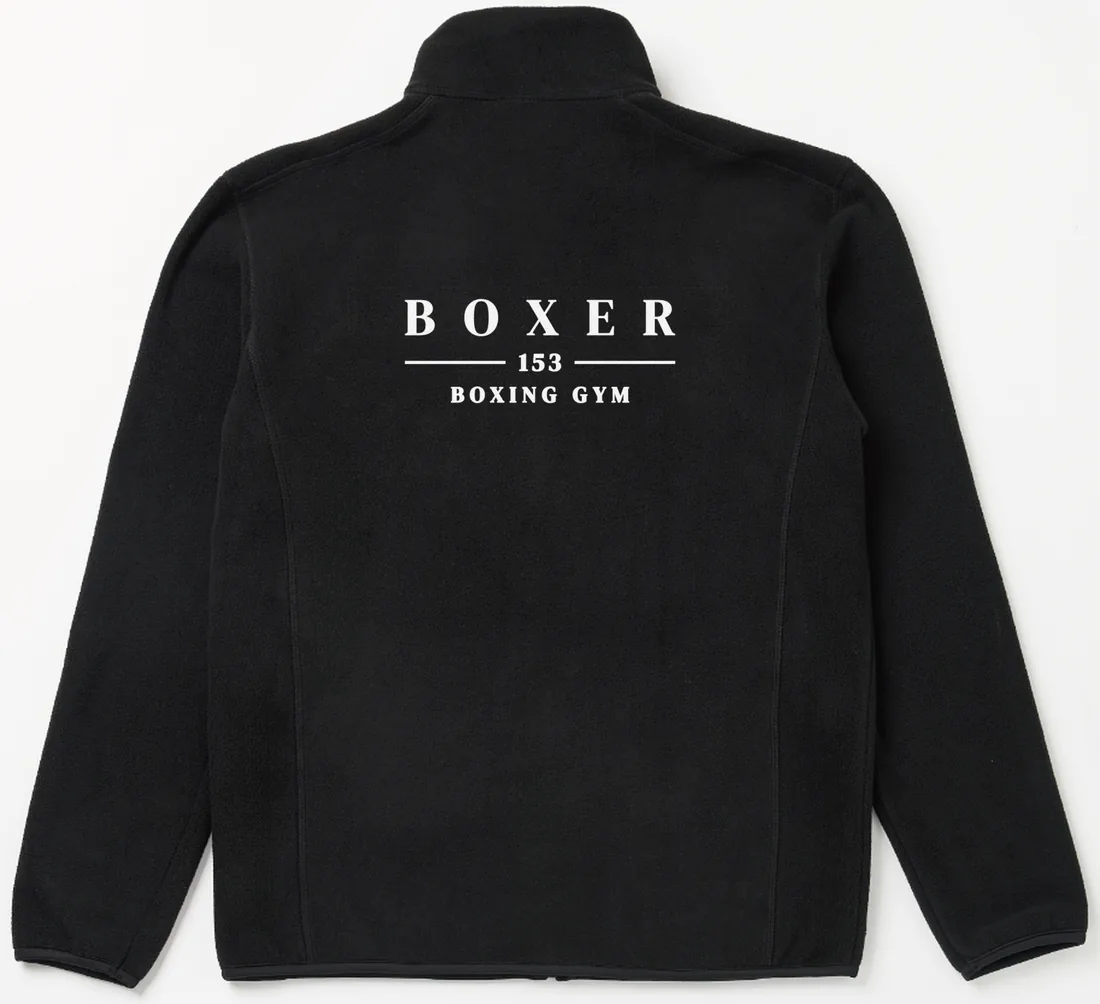
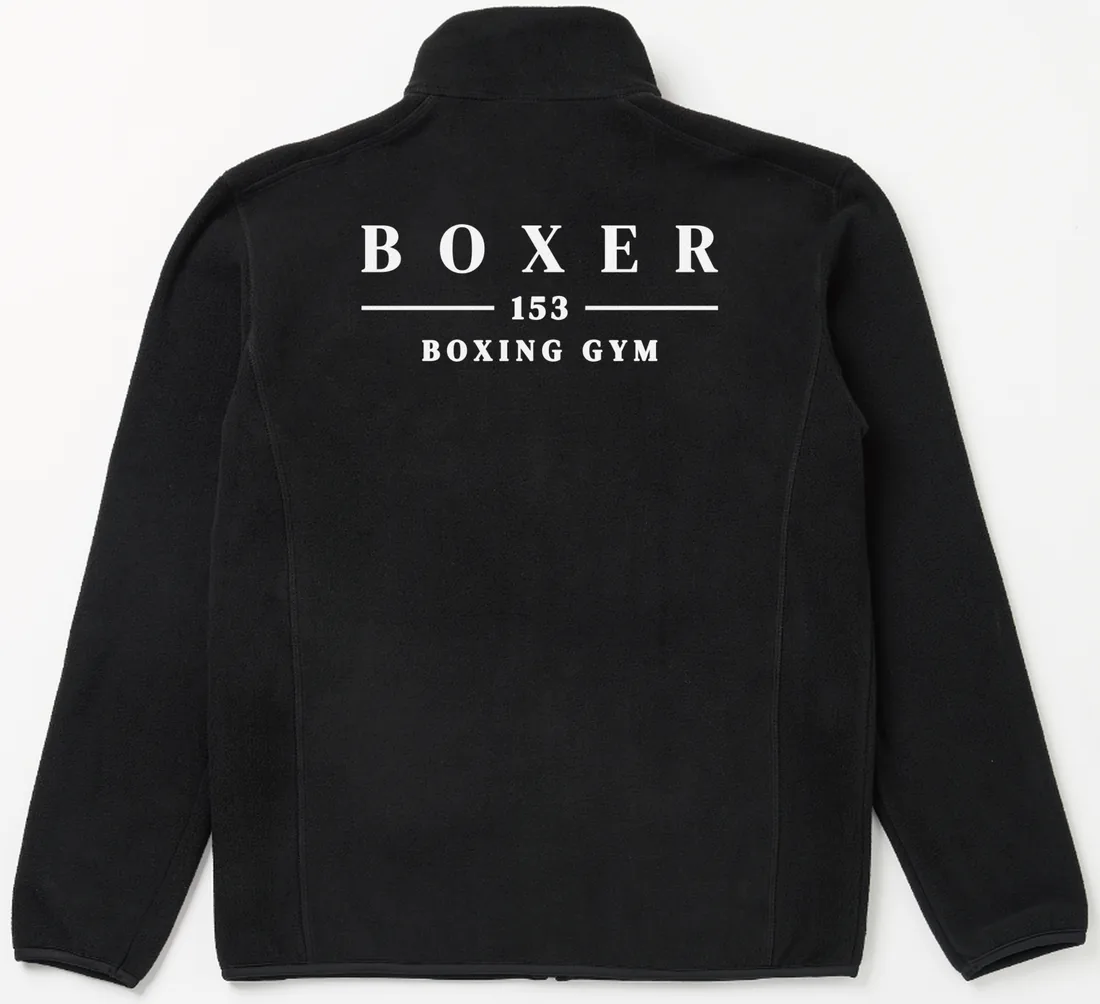
feat(goods): 플리스 등판 인쇄를 가로 29cm · 목 아래 9cm 로 — 상세페이지 사진 · 문구 · TV 카드 같이
- 대표님 「지금 올라간 사진 비율이 더 좋아」 → 「인쇄 파일도 키우기」: 같은 도안 1.318배 · 위치 6cm 위로
- 모델 4장 · 운동 2장 · 평면 2장 · og.jpg 의 등판을 실제 29cm 벡터로 다시 얹음 (옛 등판은 지움)
- 디자인 포인트 · 제품 정보 문구 22cm → 29cm, 바뀐 그림 주소에 ?v=2 (og ?v=3), TV 카드 · 홈 카드 썸네일도
- CLAUDE.md 굿즈: 새 인쇄 규격 · 결정 기록 · 사진에는 늘 실제 벡터로

Claude-Session: https://claude.ai/code/session_01WRojMx1b7fU4RxdzaoCPV4

Changed region(s): [[0.3091, 0.2161, 0.6491, 0.4014]]

diff --git a/public/goods/fleece/index.html b/public/goods/fleece/index.html
@@ -15,14 +15,14 @@
 <meta property="og:title" content="153 플리스 집업 · 연말 원가 판매 25,000원">
 <meta property="og:description" content="원가 25,000원 그대로 · 153 이익 0원 · 선착순 50벌 · 11월 26일(목)까지">
 <meta property="og:url" content="https://myboxer153.com/goods/fleece">
-<meta property="og:image" content="https://myboxer153.com/goods/fleece/og.jpg?v=2">
+<meta property="og:image" content="https://myboxer153.com/goods/fleece/og.jpg?v=3">
 <meta property="og:image:width" content="1200">
 <meta property="og:image:height" content="630">
 <meta property="og:locale" content="ko_KR">
 <meta name="twitter:card" content="summary_large_image">
 <meta name="twitter:title" content="153 플리스 집업 · 회원 사전예약">
 <meta name="twitter:description" content="원가 25,000원 그대로 · 153 이익 0원 · 선착순 50벌 · 11월 26일(목)까지">
-<meta name="twitter:image" content="https://myboxer153.com/goods/fleece/og.jpg?v=2">
+<meta name="twitter:image" content="https://myboxer153.com/goods/fleece/og.jpg?v=3">
 
 <link rel="icon" type="image/svg+xml" href="/myboxer-icon.svg">
 <link rel="icon" type="image/png" href="/myboxer-icon.png">
@@ -33,7 +33,7 @@
 <link rel="preconnect" href="https://fonts.googleapis.com">
 <link rel="preconnect" href="https://fonts.gstatic.com" crossorigin>
 <link rel="stylesheet" href="https://fonts.googleapis.com/css2?family=DM+Serif+Display&display=swap">
-<link rel="preload" as="image" href="/goods/fleece/img/model-back.webp" fetchpriority="high">
+<link rel="preload" as="image" href="/goods/fleece/img/model-back.webp?v=2" fetchpriority="high">
 <style>
 /* 라이트 단일 테마(153 안내 페이지 공통). 기기가 다크여도 바꾸지 않는다.
    민트는 작은 강조에만, 큰 단추는 검정. 글씨는 13px 아래로 내리지 않는다. */
@@ -251,7 +251,7 @@ details p{margin:6px 0 0}
   </header>
 
   <section class="hero">
-    <img src="/goods/fleece/img/model-back.webp" width="952" height="1280" alt="등판에 BOXER 153 BOXING GYM 이 인쇄된 검정 플리스 집업을 입은 모델" fetchpriority="high">
+    <img src="/goods/fleece/img/model-back.webp?v=2" width="952" height="1280" alt="등판에 BOXER 153 BOXING GYM 이 인쇄된 검정 플리스 집업을 입은 모델" fetchpriority="high">
     <span class="badge">연말 원가 판매 · 선착순 50벌</span>
   </section>
 
@@ -294,14 +294,14 @@ details p{margin:6px 0 0}
     <div class="points">
       <figure class="point">
         <img src="/goods/fleece/img/detail-back-white.webp" width="750" height="310" loading="lazy" alt="등판 인쇄 확대: BOXER, 153, BOXING GYM">
-        <figcaption><b><span class="num">01</span>등판 · BOXER 153 BOXING GYM</b><span>어깨뼈 높이에 가로 22cm 세리프 글씨. 크지 않게, 멀리서도 또렷하게.</span></figcaption>
+        <figcaption><b><span class="num">01</span>등판 · BOXER 153 BOXING GYM</b><span>목 아래 9cm, 등 위쪽에 가로 29cm 세리프 글씨. 크고 시원하게, 멀리서도 또렷하게.</span></figcaption>
       </figure>
       <figure class="point">
         <img src="/goods/fleece/img/detail-chest-white.webp" width="900" height="620" loading="lazy" alt="가슴 153 심볼 확대">
         <figcaption><b><span class="num">02</span>가슴 · 153 심볼</b><span>왼쪽 가슴에 3.8cm. 앞은 작고 조용하게 153 하나만.</span></figcaption>
       </figure>
       <figure class="point">
-        <img src="/goods/fleece/img/flat-back-white.webp" width="1100" height="1004" loading="lazy" alt="플리스 집업 뒷면 전체" style="background:#F3F2EF">
+        <img src="/goods/fleece/img/flat-back-white.webp?v=2" width="1100" height="1004" loading="lazy" alt="플리스 집업 뒷면 전체" style="background:#F3F2EF">
         <figcaption><b><span class="num">03</span>굵게 다듬은 인쇄</b><span>컷팅 필름 인쇄라 가는 선이 없도록 모든 획을 1.5mm 넘게 다시 그렸어요.</span></figcaption>
       </figure>
     </div>
@@ -312,9 +312,9 @@ details p{margin:6px 0 0}
     <h2 class="sec-title">입으면 이런 느낌</h2>
     <div class="rail" aria-label="착용 사진 넘기기">
       <figure><img src="/goods/fleece/img/model-front.webp" width="952" height="1280" loading="lazy" alt="앞에서 본 모습, 왼쪽 가슴에 153 심볼"><figcaption>앞 · 지퍼를 끝까지 올렸을 때</figcaption></figure>
-      <figure><img src="/goods/fleece/img/model-woman.webp" width="952" height="1280" loading="lazy" alt="뒤를 돌아보는 여자 모델, 등판 인쇄"><figcaption>뒤 · 흰색 인쇄</figcaption></figure>
-      <figure><img src="/goods/fleece/img/model-street.webp" width="952" height="1280" loading="lazy" alt="저녁 거리를 걷는 모델의 뒷모습"><figcaption>운동 끝나고 가는 길</figcaption></figure>
-      <figure><img src="/goods/fleece/img/model-back-gray.webp" width="952" height="1280" loading="lazy" alt="진회색 인쇄 등판"><figcaption>뒤 · 진회색 인쇄</figcaption></figure>
+      <figure><img src="/goods/fleece/img/model-woman.webp?v=2" width="952" height="1280" loading="lazy" alt="뒤를 돌아보는 여자 모델, 등판 인쇄"><figcaption>뒤 · 흰색 인쇄</figcaption></figure>
+      <figure><img src="/goods/fleece/img/model-street.webp?v=2" width="952" height="1280" loading="lazy" alt="저녁 거리를 걷는 모델의 뒷모습"><figcaption>운동 끝나고 가는 길</figcaption></figure>
+      <figure><img src="/goods/fleece/img/model-back-gray.webp?v=2" width="952" height="1280" loading="lazy" alt="진회색 인쇄 등판"><figcaption>뒤 · 진회색 인쇄</figcaption></figure>
     </div>
     <p class="ai-note">모델 사진은 이해를 돕기 위한 AI 예시 이미지예요. 실제 색감과 핏은 조금 다를 수 있어요.</p>
   </section>
@@ -324,10 +324,10 @@ details p{margin:6px 0 0}
     <h2 class="sec-title">운동할 때도 이렇게</h2>
     <p class="sec-lead">몸 풀 때 걸치고, 끝나면 그대로 입고 가요.</p>
     <div class="rail" aria-label="운동하는 사진 넘기기">
-      <figure><img src="/goods/fleece/img/gym-bag.webp" width="952" height="1280" loading="lazy" alt="플리스 집업을 입고 샌드백을 치는 남자, 등판 흰색 인쇄"><figcaption>샌드백 · 흰색 인쇄</figcaption></figure>
+      <figure><img src="/goods/fleece/img/gym-bag.webp?v=2" width="952" height="1280" loading="lazy" alt="플리스 집업을 입고 샌드백을 치는 남자, 등판 흰색 인쇄"><figcaption>샌드백 · 흰색 인쇄</figcaption></figure>
       <figure><img src="/goods/fleece/img/gym-mitt.webp" width="952" height="1280" loading="lazy" alt="플리스 집업을 입고 코치 미트에 잽을 치는 여자, 왼쪽 가슴에 153 심볼"><figcaption>미트 · 가슴 153 심볼</figcaption></figure>
       <figure><img src="/goods/fleece/img/gym-rope.webp" width="952" height="1280" loading="lazy" alt="플리스 집업을 입고 줄넘기를 하는 남자"><figcaption>줄넘기로 몸 풀기</figcaption></figure>
-      <figure><img src="/goods/fleece/img/gym-shadow.webp" width="952" height="1280" loading="lazy" alt="플리스 집업을 입고 섀도복싱을 하는 여자, 등판 진회색 인쇄"><figcaption>섀도복싱 · 진회색 인쇄</figcaption></figure>
+      <figure><img src="/goods/fleece/img/gym-shadow.webp?v=2" width="952" height="1280" loading="lazy" alt="플리스 집업을 입고 섀도복싱을 하는 여자, 등판 진회색 인쇄"><figcaption>섀도복싱 · 진회색 인쇄</figcaption></figure>
     </div>
     <p class="ai-note">운동 사진도 이해를 돕기 위한 AI 예시 이미지예요.</p>
   </section>
@@ -355,7 +355,7 @@ details p{margin:6px 0 0}
     <h2 class="sec-title">제품 정보</h2>
     <dl class="spec">
       <div><dt>옷</dt><dd>검정 플리스 풀집업 · 스탠드 칼라 · 양옆 주머니</dd></div>
-      <div><dt>인쇄</dt><dd>컷팅 필름 · 가슴 153 심볼 3.8cm · 등판 가로 22cm</dd></div>
+      <div><dt>인쇄</dt><dd>컷팅 필름 · 가슴 153 심볼 3.8cm · 등판 가로 29cm</dd></div>
       <div><dt>인쇄 색</dt><dd>흰색 · 진회색 중 하나</dd></div>
       <div><dt>사이즈</dt><dd data-sizes>M · L · XL · 2XL</dd></div>
       <div><dt>가격</dt><dd><span data-price>25,000원</span> (앞뒤 인쇄 포함 · 원가 그대로)</dd></div>

diff --git a/src/components/goods/GoodsNudgeCard.tsx b/src/components/goods/GoodsNudgeCard.tsx
@@ -59,7 +59,7 @@ const GoodsNudgeCard = () => {
         onClick={open}
         className="flex w-full items-center gap-3 rounded-2xl border border-amber-400/40 bg-amber-400/[0.07] px-4 py-3.5 text-left transition-transform active:scale-[0.99]"
       >
-        <img src="/goods/fleece/img/model-back.webp" alt="" className="h-14 w-11 shrink-0 rounded-xl object-cover" loading="lazy" />
+        <img src="/goods/fleece/img/model-back.webp?v=2" alt="" className="h-14 w-11 shrink-0 rounded-xl object-cover" loading="lazy" />
         <span className="min-w-0 flex-1">
           <span className="block text-label font-extrabold text-foreground">플리스 집업 신청 완료 · 결제 전</span>
           <span className="mt-0.5 block text-label text-muted-foreground">
@@ -77,7 +77,7 @@ const GoodsNudgeCard = () => {
       onClick={open}
       className="flex w-full items-center gap-3 rounded-2xl border border-border bg-card px-4 py-3.5 text-left shadow-elev-1 transition-transform active:scale-[0.99]"
     >
-      <img src="/goods/fleece/img/model-back.webp" alt="" className="h-14 w-11 shrink-0 rounded-xl object-cover" loading="lazy" />
+      <img src="/goods/fleece/img/model-back.webp?v=2" alt="" className="h-14 w-11 shrink-0 rounded-xl object-cover" loading="lazy" />
       <span className="min-w-0 flex-1">
         <span className="block text-label font-extrabold text-foreground">153 플리스 집업 · 원가 판매</span>
         <span className="mt-0.5 block text-label text-muted-foreground">

diff --git a/src/components/admin/GoodsAdminEntryCard.tsx b/src/components/admin/GoodsAdminEntryCard.tsx
@@ -22,7 +22,7 @@ const GoodsAdminEntryCard = ({ onOpen }: { onOpen: () => void }) => {
       onClick={onOpen}
       className="mb-4 flex w-full items-center gap-3 rounded-2xl border border-border bg-card px-4 py-3 text-left active:scale-[0.99]"
     >
-      <img src="/goods/fleece/img/model-back.webp" alt="" className="h-12 w-9 shrink-0 rounded-lg object-cover" loading="lazy" />
+      <img src="/goods/fleece/img/model-back.webp?v=2" alt="" className="h-12 w-9 shrink-0 rounded-lg object-cover" loading="lazy" />
       <span className="min-w-0 flex-1">
         <span className="block text-body font-black text-foreground">굿즈 신청 · {c.title}</span>
         <span className="block text-label text-muted-foreground">

diff --git a/src/components/liveBoard/LiveBoardGoodsCard.tsx b/src/components/liveBoard/LiveBoardGoodsCard.tsx
@@ -17,8 +17,8 @@ import { GOODS_FLEECE_SLUG, ddayLabel, deadlineLabel, hasGoodsSample, isAcceptin
 import { getGoodsCampaign } from "@/services/goodsService";
 
 const PHOTOS = [
-  { src: "/goods/fleece/img/model-back.webp", label: "흰색 인쇄", dot: "#F2F2F0" },
-  { src: "/goods/fleece/img/model-back-gray.webp", label: "진회색 인쇄", dot: "#63666A" },
+  { src: "/goods/fleece/img/model-back.webp?v=2", label: "흰색 인쇄", dot: "#F2F2F0" },
+  { src: "/goods/fleece/img/model-back-gray.webp?v=2", label: "진회색 인쇄", dot: "#63666A" },
 ];
 
 const LiveBoardGoodsCard = ({ branchName }: { branchName?: string }) => {

diff --git a/CLAUDE.md b/CLAUDE.md
@@ -974,12 +974,12 @@ Claude(0순위)는 프롬프트 캐시 때문에 바뀌지 않는 글을 앞에:
 
 ### 153 굿즈 사전예약 — 플리스 집업 (2026-11-12 대표님 「디자인 마무리 하고 모델에 입혀서 상세페이지 처럼 만들어줘 마이복서에 올려서 회원님들에게 판매신청받고 … 유효 회원님들에게 전체 문자 보내서 판매하게 상세페이지 링크 만들어줘」)
 
-**25,000원 원가 판매 · 선착순 50벌**(2026-11-13 00시 대표님 — 처음 39,000원) · 옷은 검정 플리스 하나, 인쇄 색만 흰색 / 진회색 고르기 · 신청 뒤 다니는 지점 데스크에서 카드 · 계좌이체(같은 값) · 마감 2주(11/26 목) · 결제한 신청만 제작. 디자인 = 가슴 153 심볼 3.8cm + 등판 BOXER / 153 / BOXING GYM 가로 22cm(컷팅 필름 · 획 1.5mm 이상) — 인쇄 파일은 대표님 대화의 153_final_thick_print_files.zip.
+**25,000원 원가 판매 · 선착순 50벌**(2026-11-13 00시 대표님 — 처음 39,000원) · 옷은 검정 플리스 하나, 인쇄 색만 흰색 / 진회색 고르기 · 신청 뒤 다니는 지점 데스크에서 카드 · 계좌이체(같은 값) · 마감 2주(11/26 목) · 결제한 신청만 제작. 디자인 = 가슴 153 심볼 3.8cm + 등판 BOXER / 153 / BOXING GYM **가로 29cm · 목 시접 아래 9cm**(컷팅 필름 · 획 1.5mm 이상) — 인쇄 파일은 대표님 대화의 `153_print_29cm_files.zip`(등판 29cm 흰색 · 진회색 SVG · PDF 실제 크기 + 가슴 ① + 위치 사양서). 처음 확정은 가로 22cm · 목 아래 15cm(153_final_thick_print_files.zip)였고, 2026-11-13 대표님이 운동 사진(제미나이가 크고 높게 그린 등판)을 보고 「모델이 입고 있는 비율이 좀 더 우영미 같은 느낌」 · 「지금 올라간 사진 비율이 더 좋아」 → 「인쇄 파일도 키우기」로 바꿨다 — 같은 도안을 1.318배(획 · 간격도 같이 굵어짐), 위치만 6cm 위로. 상세페이지 사진(모델 4장 · 운동 2장 · 평면 2장 · og.jpg)은 모두 이 29cm 벡터로 다시 얹었다(옛 등판은 지우고 FSR 복원 + 원단 결 노이즈 — 저장소 밖 `fleece/boxing/reprint.py`). **사진에 인쇄를 보여 줄 때는 늘 실제 벡터로 얹는다** — AI 가 그린 글씨는 크기 · 자간 · 위치가 틀린다. 바뀐 그림은 주소에 `?v=2`(og 는 `?v=3`) · 업체에 새 파일을 보내는 것은 대표님.
 
 | 파일 | 역할 |
 |---|---|
 | [public/goods/fleece/index.html](public/goods/fleece/index.html) | 상세페이지(정적 HTML, `/goods/fleece` — `_redirects`). 문자 · 카카오 링크 미리보기(og.jpg) · 로그인 없이 신청(이름 · 휴대폰 · 지점 · 동의). 같은 브라우저에 마이복서153 로그인이 남아 있으면(localStorage `sb-whnczhxyjmyywhlfbgsd-auth-token`, 만료 전) 그 계정으로 채우고 '내 신청' · 결제 전 취소. 앱 카드에서 열면 `?from=app` → source app. 서버에 닿지 않으면(미리보기 주소 · 적용 전) 같은 값의 기본값으로 그린다 |
-| `public/goods/fleece/img/*.webp` | 모델 컷 5장(제미나이로 만든 AI 예시 — 페이지에 그렇게 적었다 · 가슴 로고는 정확한 벡터로 다시 얹음) · 앞/뒤 평면 컷(업체 사진 합성) · 인쇄 확대 · **운동 컷 4장 `gym-*.webp`**(2026-11-13 대표님 「우리가 만든 옷을입고 복싱하고있는 이미지몇장 만들어서 올리자」 — LOOK 아래 「IN THE GYM · 운동할 때도 이렇게」 칸: 샌드백 흰색 인쇄 · 미트 가슴 심볼 · 줄넘기 · 섀도복싱 진회색 인쇄. 제미나이 웹(Pro · 이미지 · 3:4)에 실제 착용 컷 · 인쇄 원본을 붙여 만들고, 화면의 765×1024 미리보기를 떠서 952×1280 으로 키움(원본 내려받기는 PC 다운로드 폴더라 못 씀) · 샌드백 컷 링 바닥의 뭉개진 글자는 지움 · 미트 컷은 미트 위로 나온 손가락을 고쳐 다시 만듦 · 'AI 예시' 한 줄 같이) |
+| `public/goods/fleece/img/*.webp` | 모델 컷 5장(제미나이로 만든 AI 예시 — 페이지에 그렇게 적었다 · 가슴 로고는 정확한 벡터로 다시 얹음) · 앞/뒤 평면 컷(업체 사진 합성) · 인쇄 확대 · **운동 컷 4장 `gym-*.webp`**(2026-11-13 대표님 「우리가 만든 옷을입고 복싱하고있는 이미지몇장 만들어서 올리자」 — LOOK 아래 「IN THE GYM · 운동할 때도 이렇게」 칸: 샌드백 흰색 인쇄 · 미트 가슴 심볼 · 줄넘기 · 섀도복싱 진회색 인쇄. 제미나이 웹(Pro · 이미지 · 3:4)에 실제 착용 컷 · 인쇄 원본을 붙여 만들고, 화면의 765×1024 미리보기를 떠서 952×1280 으로 키움(원본 내려받기는 PC 다운로드 폴더라 못 씀) · 샌드백 컷 링 바닥의 뭉개진 글자는 지움 · 미트 컷은 미트 위로 나온 손가락을 고쳐 다시 만듦 · 'AI 예시' 한 줄 같이 · 샌드백 · 섀도복싱 등판은 위 29cm 벡터로 다시 얹음) |
 | [supabase/migrations/20261112202433_goods_preorder.sql](supabase/migrations/20261112202433_goods_preorder.sql) | `goods_campaigns`(상품 한 줄 — 가격 · 색 · 사이즈 · 마감, 바꿀 땐 update) · `goods_orders` · 함수 6개(아래). 표는 anon · authenticated 모두 막음 |
 | [src/lib/goodsPreorder.ts](src/lib/goodsPreorder.ts) · [services/goodsService.ts](src/services/goodsService.ts) | 상태 이름 · 다음 단계(서버 허용 변화와 같게) · 색×사이즈 집계 · 업체 발주 문구 · 마감 날짜(한국 날짜) / 서버 호출 |
 | [components/admin/GoodsOrdersPanel.tsx](src/components/admin/GoodsOrdersPanel.tsx) | 운영진 신청 관리 — 전체관리자 대시보드 '굿즈' 탭 · 지점장/코치 홈 '굿즈 신청' 카드(`/manager?tab=goods`, 열린 동안 · 마감 뒤 45일). 결제 완료 · 받음 · 취소 · 되돌리기 · 옵션/메모 · 색×사이즈(결제 기준 / 신청 포함) · 업체 발주 문구 복사 · 링크 복사. `?demo=1` = 예시 |
